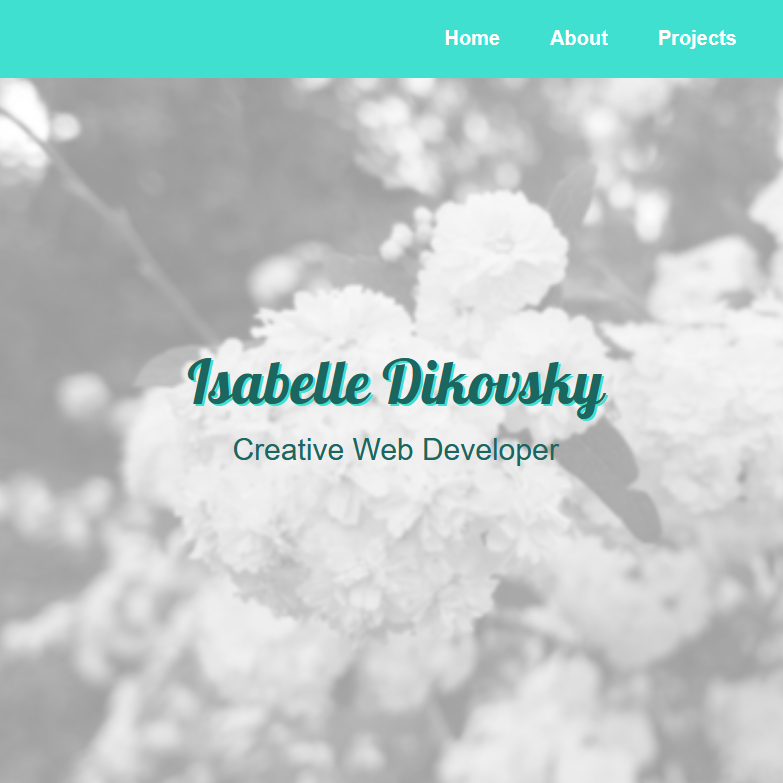
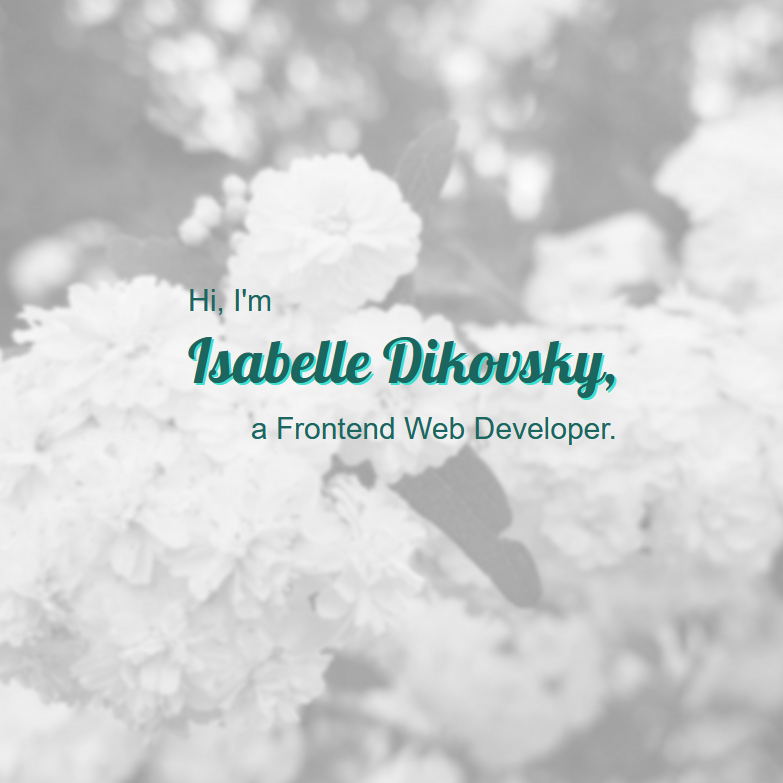
Projects and Contact Layout

diff --git a/index.html b/index.html
@@ -24,7 +24,7 @@
         <div class="collapse navbar-collapse justify-content-end align-items-end" id="navbarNav">
             <ul id="nav-links" class="navbar-nav ">
                 <li class="nav-item">
-                    <a class="nav-link" href="#welcome-section">Home</a>
+                    <a class="nav-link" href="#welcome-section">Welcome</a>
                 </li>
                 <li class="nav-item">
                     <a class="nav-link" href="#about-section">About</a>
@@ -43,67 +43,102 @@
 
     <section id="welcome-section">
         <header>
-            <h1>Isabelle Dikovsky</h1>
-            <h3>Creative Web Developer</h3>
+            <h3 id="hi-text">Hi, I'm</h3>
+            <h1>Isabelle Dikovsky,</h1>
+            <h3 id="developer-text">a Frontend Web Developer.</h3>
         </header>
-    </section>
-
-    <section id="about-section">
-        <div id="about-container">
-            <div class="about-container" id="about-text">
-                <h2>About Me</h2>
-                <p>Hi, I'm a junior web developer with a background in graphic design.
-                    <br>I love being creative and especially love solving technical problems, which is why I transitioned into web development. I'm looking for an opportunity to grow in a developer environment and sharpen my skills as a web developer.
-                </p>
-                <h2>Skill Set</h2>
-                <p>Proficient In: JavaScript, TypeScript, HTML5, CSS3, Adobe Photoshop, Illustrator & InDesign</p>
-                <p>Experienced In: C#, SQL, AngularJS, Github, Regex</p>
-            </div>
-            <div class="about-container" id="self-portrait-box"><img src="../assets/portrait1x1.png"></div>
-        </div>
     </section>
 
     <section id="projects-section">
         <h2>My Projects</h2>
         <div id="projects-container">
             <div class="project-tile">
-                <img class="project-img" src="">
-                <a href="https://codepen.io/IsabelleAnn/pen/NjoLmG" target="_blank">User Access Memory Game</a>
-            </div>
-            <div class="project-tile">
-                <img class="project-img" src="">
-                <a href="https://codepen.io/IsabelleAnn/full/NWpbXbE" target="_blank">Portfolio</a>
-            </div>
-            <div class="project-tile">
-                <img class="project-img" src="">
-                <a href="https://codepen.io/IsabelleAnn/full/BaWQwdy" target="_blank">Technical Documentation</a>
-            </div>
-            <div class="project-tile">
-                <img class="project-img" src="">
-                <a href="https://codepen.io/IsabelleAnn/full/RwpRXEd" target="_blank">Landing Page</a>
-            </div>
-            <div class="project-tile">
-                <img class="project-img" src="">
-                <a href="https://codepen.io/IsabelleAnn/full/qBBQvOj" target="_blank">Survey Form</a>
-            </div>
-            <div class="project-tile">
-                <img class="project-img" src="">
-                <a href="https://codepen.io/IsabelleAnn/full/NjoLmG" target="_blank">Tribute Page</a>
-            </div>
 
+                <a href="https://codepen.io/IsabelleAnn/full/NWpbXbE" target="_blank"><img class="project-img" src="../assets/portfolio-thumbnail.png">
+                    <p class="project-name">Portfolio</p>
+                </a>
+            </div>
+            <div class="project-tile">
 
+                <a href="https://codepen.io/IsabelleAnn/full/BaWQwdy" target="_blank"><img class="project-img" src="../assets/Tech-Doc-thumbnail.png">
+                    <p class="project-name">Technical Documentation</p>
+                </a>
+            </div>
+            <div class="project-tile">
+
+                <a href="https://codepen.io/IsabelleAnn/full/RwpRXEd" target="_blank"><img class="project-img" src="../assets/landing-page-thumbnail.png">
+                    <p class="project-name">Landing Page</p>
+                </a>
+            </div>
+            <div class="project-tile">
+
+                <a href="https://codepen.io/IsabelleAnn/full/qBBQvOj" target="_blank"><img class="project-img" src="../assets/survey-form-thumbnail.png">
+                    <p class="project-name">Survey Form</p>
+                </a>
+            </div>
+            <div class="project-tile">
+
+                <a href="https://codepen.io/IsabelleAnn/full/NjoLmG" target="_blank"><img class="project-img" src="../assets/tribute-page-thumbnail.png">
+                    <p class="project-name">Tribute Page</p>
+                </a>
+            </div>
+            <div class="project-tile">
+
+                <a href="https://github.com/IsabelleAnn/Memory-Game" target="_blank"><img class="project-img" src="../assets/memory-game-thumbnail.png">
+                    <p class="project-name">Memory Game</p>
+                </a>
+            </div>
         </div>
+    </section>
 
+    <section id="about-section">
+        <div id="about-container">
+            <div class="about-container" id="about-text">
+                <h2>About Me</h2>
+                <p>I'm a partially self-taught Frontend Web Developer with a background in Graphic Design.
+                    <br>I learned development through a Fullstack Web Dev course and FreeCodeCamp.com. I love being creative and especially love solving technical problems, which is why I transitioned into web development.
+                </p>
+                <h2>Skill Set</h2>
+                <p>Proficient In: JavaScript, TypeScript, HTML5, CSS3, Adobe Photoshop, Illustrator & InDesign</p>
+                <p>Experienced In: C#, SQL, AngularJS, Github, Regex</p>
+            </div>
+            <div class="about-container" id="self-portrait-box"><img id="avatar" src="../assets/bnw-avatar.png"></div>
+        </div>
     </section>
 
     <section id="contact-section">
-        <h2>Connect with me</h2>
+        <h2>Connect With Me</h2>
         <div id="contact-container">
-            <div><a href="https://github.com/IsabelleAnn" target="_blank">Github</a></div>
-            <div><a href="https://www.linkedin.com/in/isabelledikovsky/" target="_blank">LinkedIn</a></div>
-            <div><a id="profile-link" href="https://www.freecodecamp.org/isabelleann" target="_blank">FreeCodeCamp</a></div>
-            <div><a href="https://codepen.io/IsabelleAnn" target="_blank">CodePen</a></div>
-            <div><a href="https://www.behance.net/IsabelleAnn85" target="_blank">Design</a></div>
+            <div>
+                <a class="contact-link-container" href="https://github.com/IsabelleAnn" target="_blank">
+                    <img class="contact-icon" src="../assets/github-icon.png">
+                    <p class="contact-link">Github</p>
+                </a>
+            </div>
+            <div>
+                <a class="contact-link-container" href="https://www.linkedin.com/in/isabelledikovsky/" target="_blank">
+                    <img class="contact-icon" src="../assets/linkedin-icon.png">
+                    <p class="contact-link">LinkedIn</p>
+                </a>
+            </div>
+            <div>
+                <a class="contact-link-container" id="profile-link" href="https://www.freecodecamp.org/isabelleann" target="_blank">
+                    <img class="contact-icon" src="../assets/freecodecamp-icon.png">
+                    <p class="contact-link">FreeCodeCamp</p>
+                </a>
+            </div>
+            <div>
+                <a class="contact-link-container" href="https://codepen.io/IsabelleAnn" target="_blank">
+                    <img class="contact-icon" src="../assets/codepen-icon.png">
+                    <p class="contact-link">CodePen</p>
+                </a>
+            </div>
+            <div>
+                <a class="contact-link-container" href="https://www.behance.net/IsabelleAnn85" target="_blank">
+                    <img class="contact-icon" src="../assets/behance-icon.png">
+                    <p class="contact-link">Design</p>
+                </a>
+            </div>
         </div>
 
     </section>

diff --git a/styles.css b/styles.css
@@ -10,9 +10,7 @@ body {
     color: rgb(27, 102, 95);
 }
 
-#about-section,
-#projects-section,
-#contact-section {
+section {
     padding-top: 5%;
     padding-bottom: 5%;
 }
@@ -21,6 +19,11 @@ body {
 /* Navigation */
 
 #navbar {
+    font-family: 'Pattaya', sans-serif;
+    box-shadow: 2px 2px 5px 2px rgba(0, 0, 0, 0.247);
+    font-size: 32px;
+    font-weight: 50;
+    z-index: 1;
     display: flex !important;
     justify-content: flex-end !important;
     background-color: turquoise;
@@ -106,17 +109,84 @@ p {
     font-size: 30px;
 }
 
+#hi-text {
+    text-align: left;
+}
+
+#developer-text {
+    text-align: right;
+}
+
+
+/* Projects */
+
+#projects-section {
+    text-align: center;
+    align-items: center;
+    background-color: rgb(27, 102, 95);
+    color: white;
+}
+
+#projects-section>h2 {
+    padding-bottom: 3%;
+}
+
+#projects-container {
+    display: grid;
+    grid-template-columns: repeat(auto-fit, minmax(320px, 1fr));
+    grid-gap: 4rem;
+    width: 100%;
+    max-width: 1280px;
+    margin: 0 auto;
+    padding: 0px 30px 0px 30px;
+}
+
+.project-tile>a {
+    display: flex;
+    flex-direction: column;
+    text-align: center;
+    font-size: 1rem;
+    background-color: turquoise;
+    box-shadow: 2px 2px 2px 1px rgba(0, 0, 0, 0.157);
+    border-radius: 10px;
+}
+
+#projects-container a:link,
+#projects-container a:visited,
+#projects-container a:active {
+    text-decoration: none;
+    color: white;
+    font-weight: bold;
+}
+
+#projects-container a:hover {
+    color: rgb(27, 102, 95);
+}
+
+.project-img {
+    filter: grayscale(var(--value, 100%));
+    border-radius: 10px 10px 0px 0px;
+}
+
+.project-img:hover {
+    filter: grayscale(var(--value, 0%));
+}
+
+.project-name {
+    margin-top: 10px;
+    margin-bottom: 10px;
+}
+
 
 /* About */
 
 #about-section {
-    color: white;
+    color: rgb(27, 102, 95);
     display: flex;
     justify-content: center;
     align-items: center;
     text-align: center;
     flex-direction: column;
-    background-color: rgb(27, 102, 95);
 }
 
 #about-container {
@@ -155,37 +225,6 @@ p {
 }
 
 
-/* Projects */
-
-#projects-section {
-    display: flex;
-    justify-content: center;
-    align-items: center;
-    flex-direction: column;
-}
-
-#projects-container {
-    display: flex;
-    flex-wrap: wrap;
-    justify-content: space-between;
-}
-
-.project-tile {
-    display: flex;
-    flex-direction: column;
-    align-items: center;
-    text-align: center;
-    width: 30%;
-    font-size: 2vw;
-    margin-top: 5%;
-}
-
-.project-img {
-    max-width: 80%;
-    height: auto;
-}
-
-
 /* Contact */
 
 #contact-section {
@@ -195,16 +234,44 @@ p {
     flex-direction: column;
     color: white;
     background-color: rgb(27, 102, 95);
+    font-size: 1.5vw;
+}
+
+#contact-section a:link,
+#contact-section a:visited,
+#contact-section a:active {
+    /* font-size: 1vw; */
+    text-decoration: none;
+    color: white;
+}
+
+#contact-section a:hover {
+    color: turquoise;
 }
 
 #contact-container {
     display: flex;
-    justify-content: space-between;
-    width: 70%;
-    font-size: 2vw;
+    justify-content: space-around;
+    width: 80%;
 }
 
-@media screen and (max-width: 768px) {
+.contact-link {
+    margin: 0px;
+}
+
+.contact-link-container {
+    display: flex;
+    justify-content: center;
+    align-items: center;
+}
+
+.contact-icon {
+    max-height: 24px;
+    max-width: 24px;
+    margin-right: 3px;
+}
+
+@media all and (max-width: 768px) {
     #navbar {
         padding-top: 10px !important;
         padding-bottom: 10px !important;
@@ -240,14 +307,20 @@ p {
         max-width: 40%;
         margin-bottom: 5%;
     }
-    #projects-container {
-        display: flex;
+    #contact-container {
         flex-direction: column;
-        align-items: center;
+    }
+    .contact-link {
+        font-size: 3vw;
+        margin: 2px;
+    }
+    .contact-icon {
+        max-height: 4%;
+        max-width: 4%;
     }
 }
 
-@media screen and (min-width: 769px) {
+@media all and (min-width: 769px) {
     #about-text {
         margin-left: 10%;
         margin-right: 5%;
